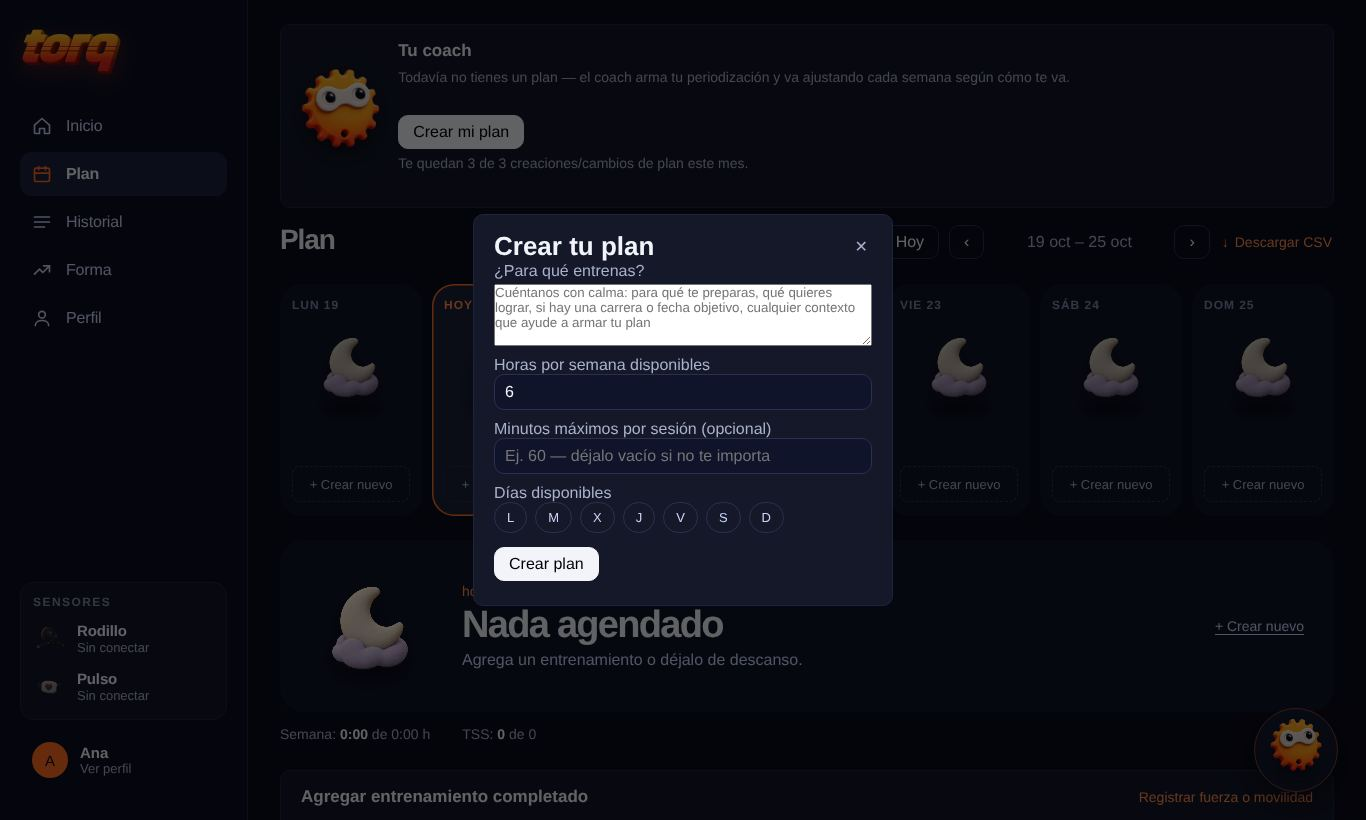
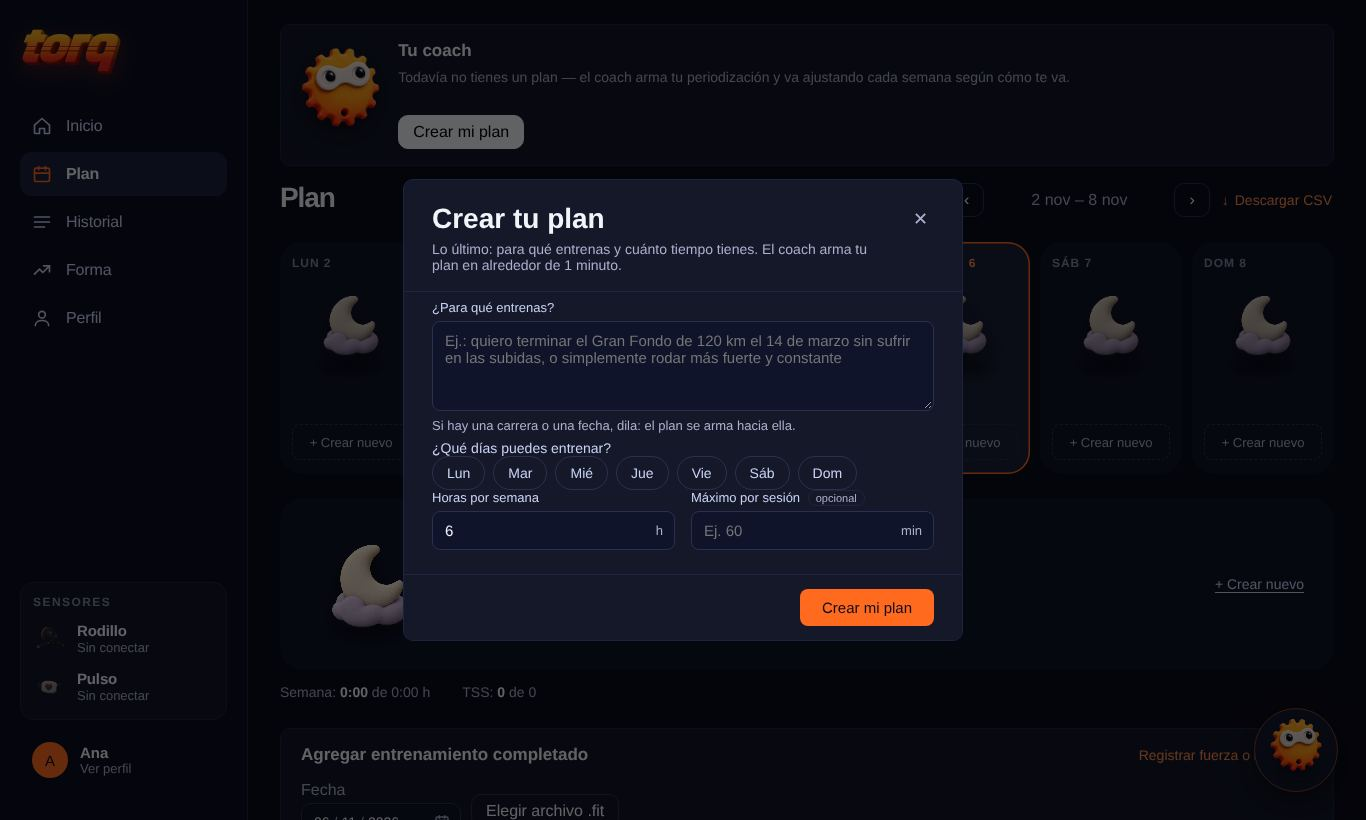
Crear mi plan: espera clara (~1 min) que no se cierra por accidente
Datos reales (coach_calls, 152 planes): la espera es de ~50 s, ~75 s en
el 10 % más lento y hasta ~2 min.

- Pantalla de espera: Piñón, los pasos marcándose, «Llevamos N s» y
  «tarda alrededor de 1 minuto; puedes cambiar de pestaña». Si cambió de
  pestaña, el título avisa «Tu plan está listo».
- No se puede cerrar mientras se arma (antes un clic afuera la cerraba:
  el plan se creaba sin que la persona viera el resultado).
- El modal usa el mismo diseño que el cuestionario; días con nombre
  corto; horas por semana tomadas de lo que contestó en el cuestionario.
- Resultado: «Tu plan está listo» y «Ver mi plan».
- «Te quedan N de 3 creaciones» solo cuando le queda 1 o ninguna.

Claude-Session: https://claude.ai/code/session_01PEamorFJQWTATM98QwwjDk

diff --git a/src/ui/coach.ts b/src/ui/coach.ts
@@ -35,7 +35,7 @@ import type { RemovedWorkout } from '../sync/plan-removals';
 import { dayKeyOf, daysAgoKey, todayKey as localTodayKey } from '../core/day-key';
 
 // «X» para miércoles, como en los calendarios en español: dos «M» no se distinguen.
-const DAY_LABELS: Record<string, string> = { mon: 'L', tue: 'M', wed: 'X', thu: 'J', fri: 'V', sat: 'S', sun: 'D' };
+const DAY_LABELS: Record<string, string> = { mon: 'Lun', tue: 'Mar', wed: 'Mié', thu: 'Jue', fri: 'Vie', sat: 'Sáb', sun: 'Dom' };
 const DAY_NAMES: Record<string, string> = { mon: 'Lunes', tue: 'Martes', wed: 'Miércoles', thu: 'Jueves', fri: 'Viernes', sat: 'Sábado', sun: 'Domingo' };
 const DAY_ORDER = ['mon', 'tue', 'wed', 'thu', 'fri', 'sat', 'sun'] as const;
 
@@ -526,7 +526,7 @@ function createCardHtml(actionsUsed: number): string {
         <h2 class="perfil-h2" style="margin:0">${aiCoachTitle()}</h2>
         <p class="hint" style="margin-top:8px">Todavía no tienes un plan — el coach arma tu periodización y va ajustando cada semana según cómo te va.</p>
         <button class="btn-light" id="coach-open-create" style="margin-top:10px" ${atLimit ? 'disabled' : ''}>Crear mi plan</button>
-        <p class="hint" style="margin-top:6px">${isUnlimited() ? UNLIMITED_HINT : atLimit ? 'Ya usaste tus 3 creaciones/cambios de plan de este mes — vuelve el próximo mes.' : `Te quedan ${remaining} de ${MONTHLY_PLAN_ACTION_LIMIT} creaciones/cambios de plan este mes.`}</p>
+        ${isUnlimited() ? `<p class="hint" style="margin-top:6px">${UNLIMITED_HINT}</p>` : atLimit ? '<p class="hint" style="margin-top:6px">Ya usaste tus 3 creaciones o cambios de plan de este mes: vuelve el próximo mes.</p>' : remaining === 1 ? '<p class="hint" style="margin-top:6px">Te queda 1 creación o cambio de plan este mes.</p>' : ''}
       </div>
     </div>`;
 }
@@ -535,27 +535,56 @@ function createCardHtml(actionsUsed: number): string {
 // onboarding.ts) — este modal solo pregunta lo específico de ESTE plan.
 // create_plan los lee directo de appState.profile al armar el context.
 function modalHtml(): string {
-  const days = DAY_ORDER.map((d) => `<button class="plan-chip" data-day="${d}" aria-label="${DAY_NAMES[d]}" title="${DAY_NAMES[d]}">${DAY_LABELS[d]}</button>`).join('');
+  const days = DAY_ORDER.map(
+    (d) => `<button type="button" class="ob-chip plan-chip" data-day="${d}" aria-pressed="false" aria-label="${DAY_NAMES[d]}" title="${DAY_NAMES[d]}">${DAY_LABELS[d]}</button>`,
+  ).join('');
+  // Lo que contestó en el cuestionario (horas que entrena hoy) es el mejor
+  // punto de partida; si no lo dio, 6 h.
+  const known = appState.profile.intake?.recentHoursPerWeek;
+  const hours = known && known >= 1 ? Math.min(20, Math.round(known)) : 6;
   return `
     <div class="modal-backdrop" id="coach-modal-backdrop">
-      <div class="panel plan-coach-modal" id="coach-modal">
-        <div class="plan-create-head">
-          <h2 class="perfil-h2" style="margin:0">Crear tu plan</h2>
-          <button class="plan-create-close" id="coach-modal-close" aria-label="Cerrar">✕</button>
+      <div class="panel ob-modal plan-coach-modal" id="coach-modal" role="dialog" aria-modal="true" aria-labelledby="coach-modal-title">
+        <header class="ob-head">
+          <div>
+            <h2 class="ob-title" id="coach-modal-title">Crear tu plan</h2>
+            <p class="ob-subtitle" id="coach-modal-subtitle">Lo último: para qué entrenas y cuánto tiempo tienes. El coach arma tu plan en alrededor de 1 minuto.</p>
+          </div>
+          <button type="button" class="ob-close" id="coach-modal-close" aria-label="Cerrar">✕</button>
+        </header>
+        <div class="ob-body" id="coach-form">
+          <label class="ob-field">¿Para qué entrenas?
+            <textarea id="coach-goal" rows="4" placeholder="Ej.: quiero terminar el Gran Fondo de 120 km el 14 de marzo sin sufrir en las subidas, o simplemente rodar más fuerte y constante"></textarea>
+          </label>
+          <p class="ob-note" style="margin-top:6px">Si hay una carrera o una fecha, dila: el plan se arma hacia ella.</p>
+          <p class="ob-q">¿Qué días puedes entrenar?</p>
+          <div class="ob-chips" id="coach-days">${days}</div>
+          <div class="ob-grid">
+            <label class="ob-field">Horas por semana
+              <span class="ob-input-unit"><input type="number" id="coach-hours" value="${hours}" min="1" max="20" step="0.5" inputmode="decimal"><span>h</span></span>
+            </label>
+            <label class="ob-field"><span>Máximo por sesión <span class="ob-optional">opcional</span></span>
+              <span class="ob-input-unit"><input type="number" id="coach-max-minutes" placeholder="Ej. 60" min="20" max="90" inputmode="numeric"><span>min</span></span>
+            </label>
+          </div>
         </div>
-        <label class="live-col-label">¿Para qué entrenas?
-          <textarea id="coach-goal" rows="4" placeholder="Cuéntanos con calma: para qué te preparas, qué quieres lograr, si hay una carrera o fecha objetivo, cualquier contexto que ayude a armar tu plan" style="width:100%;resize:vertical;font-family:inherit"></textarea>
-        </label>
-        <label class="live-col-label" style="margin-top:10px;display:block">Horas por semana disponibles
-          <input type="number" id="coach-hours" value="6" min="1" max="20" style="width:100%">
-        </label>
-        <label class="live-col-label" style="margin-top:10px;display:block">Minutos máximos por sesión (opcional)
-          <input type="number" id="coach-max-minutes" placeholder="Ej. 60 — déjalo vacío si no te importa" min="20" max="90" style="width:100%">
-        </label>
-        <label class="live-col-label" style="margin-top:10px;display:block">Días disponibles</label>
-        <div class="plan-chip-row" id="coach-days">${days}</div>
-        <button class="btn-light" id="coach-submit" style="margin-top:14px">Crear plan</button>
-        <p class="hint" id="coach-status" style="margin-top:8px"></p>
+        <div class="ob-body coach-wait" id="coach-wait" hidden>
+          <div class="coach-wait-head">
+            ${pinonFigureHtml('habla', 64)}
+            <div>
+              <p class="coach-wait-title">Armando tu plan…</p>
+              <p class="hint" style="margin:2px 0 0">Tarda alrededor de 1 minuto. Puedes cambiar de pestaña: te avisamos cuando esté.</p>
+            </div>
+          </div>
+          <ol class="coach-wait-steps" id="coach-wait-steps">
+            ${THINKING_MESSAGES.map((m) => `<li>${escapeHtml(m)}</li>`).join('')}
+          </ol>
+        </div>
+        <div class="ob-body" id="coach-result" hidden></div>
+        <footer class="ob-foot">
+          <span class="ob-status" id="coach-status" aria-live="polite"></span>
+          <button type="button" class="ob-save" id="coach-submit">Crear mi plan</button>
+        </footer>
       </div>
     </div>`;
 }
@@ -1074,23 +1103,41 @@ function openCreateModal(onChange: () => void): void {
   backdrop.querySelectorAll<HTMLButtonElement>('#coach-days .plan-chip').forEach((chip) => {
     chip.addEventListener('click', () => {
       const day = chip.dataset.day!;
-      if (selectedDays.has(day)) {
-        selectedDays.delete(day);
-        chip.classList.remove('on');
-      } else {
-        selectedDays.add(day);
-        chip.classList.add('on');
-      }
+      const on = !selectedDays.has(day);
+      if (on) selectedDays.add(day);
+      else selectedDays.delete(day);
+      chip.classList.toggle('on', on);
+      chip.setAttribute('aria-pressed', String(on));
     });
   });
 
-  const close = () => backdrop.remove();
-  backdrop.querySelector('#coach-modal-close')?.addEventListener('click', close);
-  backdrop.addEventListener('click', (e) => {
-    if (e.target === backdrop) close();
-  });
-
+  // Mientras el coach arma el plan (~1 min) no se puede cerrar: si se
+  // cerraba con un clic afuera, el plan se creaba pero la persona no veía
+  // el resultado (y podía pedir otro, gastando de los 3 del mes).
+  let waiting = false;
   const submitBtn = backdrop.querySelector<HTMLButtonElement>('#coach-submit')!;
+  const closeBtn = backdrop.querySelector<HTMLButtonElement>('#coach-modal-close')!;
+  const close = () => backdrop.remove();
+  closeBtn.addEventListener('click', () => {
+    if (!waiting) close();
+  });
+  backdrop.addEventListener('click', (e) => {
+    if (e.target === backdrop && !waiting) close();
+  });
+  const formEl = backdrop.querySelector<HTMLElement>('#coach-form')!;
+  const waitEl = backdrop.querySelector<HTMLElement>('#coach-wait')!;
+  const resultEl = backdrop.querySelector<HTMLElement>('#coach-result')!;
+  const steps = [...backdrop.querySelectorAll<HTMLElement>('#coach-wait-steps li')];
+  const subtitleEl = backdrop.querySelector<HTMLElement>('#coach-modal-subtitle');
+  const setWaiting = (on: boolean) => {
+    waiting = on;
+    formEl.hidden = on;
+    waitEl.hidden = !on;
+    closeBtn.hidden = on;
+    if (subtitleEl) subtitleEl.hidden = on;
+    submitBtn.hidden = on;
+  };
+
   backdrop.querySelector('#coach-submit')?.addEventListener('click', async () => {
     if (!supabase) return;
     const goal = (backdrop.querySelector<HTMLInputElement>('#coach-goal')!).value.trim();
@@ -1110,14 +1157,28 @@ function openCreateModal(onChange: () => void): void {
 
     // Deshabilitado mientras espera — la llamada tarda ~1-2 min y sin esto
     // un doble click manda dos create_plan (gasta 2 de las 3 del mes en vez
-    // de 1). El texto rota para que no se sienta colgado a ese tiempo.
+    // de 1). Mientras, una pantalla de espera que no se cierra por accidente.
     submitBtn.disabled = true;
+    setWaiting(true);
+    // Los pasos se van marcando (el último se queda hasta que llegue la
+    // respuesta) y al pie corre el tiempo: a ~1 min, un texto fijo se siente
+    // colgado.
+    const started = Date.now();
     let msgIndex = 0;
-    status.textContent = THINKING_MESSAGES[0];
+    const paint = () => {
+      steps.forEach((li, i) => {
+        li.classList.toggle('done', i < msgIndex);
+        li.classList.toggle('on', i === msgIndex);
+      });
+      const secs = Math.floor((Date.now() - started) / 1000);
+      status.textContent = `Llevamos ${secs} s`;
+    };
+    paint();
+    const tickTimer = window.setInterval(paint, 1000);
     const thinkingTimer = window.setInterval(() => {
-      msgIndex = (msgIndex + 1) % THINKING_MESSAGES.length;
-      status.textContent = THINKING_MESSAGES[msgIndex];
-    }, 4000);
+      msgIndex = Math.min(msgIndex + 1, THINKING_MESSAGES.length - 1);
+      paint();
+    }, 9000);
 
     // Todo lo de abajo ya vive en el Perfil (llenado por el cuestionario
     // inicial, ver onboarding.ts) — nunca se vuelve a preguntar aquí.
@@ -1152,6 +1213,8 @@ function openCreateModal(onChange: () => void): void {
 
     const { data, error } = await supabase.functions.invoke('coach-chat', { body: { mode: 'create_plan', context } });
     window.clearInterval(thinkingTimer);
+    window.clearInterval(tickTimer);
+    setWaiting(false);
     if (error || data?.error) {
       // En respuestas non-2xx, supabase-js deja `data` en null y pone en
       // `error.message` un texto genérico ("Edge Function returned a non-2xx
@@ -1185,22 +1248,28 @@ function openCreateModal(onChange: () => void): void {
     // atleta la cierre él mismo — ya no es un auto-cierre con timer, hay
     // algo real que leer.
     status.textContent = '';
-    const form = backdrop.querySelectorAll('label, .plan-chip-row, #coach-submit');
-    form.forEach((el) => ((el as HTMLElement).style.display = 'none'));
-    status.insertAdjacentHTML('beforebegin', coachBubbleHtml(data.result.coachNote, true));
-    if (status.parentElement) speakFreshBubbles(status.parentElement);
-    if (data.result.sentToCoach) status.insertAdjacentHTML('beforebegin', sentToCoachHtml());
+    formEl.hidden = true;
+    resultEl.hidden = false;
+    backdrop.querySelector('#coach-modal-title')!.textContent = 'Tu plan está listo';
+    backdrop.querySelector('#coach-modal-subtitle')?.remove();
+    resultEl.insertAdjacentHTML('beforeend', coachBubbleHtml(data.result.coachNote, true));
+    speakFreshBubbles(resultEl);
+    if (data.result.sentToCoach) resultEl.insertAdjacentHTML('beforeend', sentToCoachHtml());
     // El servidor puede correr el arranque al lunes siguiente si esta semana ya
     // no quedan días disponibles: manda la fecha con la que guardó el plan.
-    if (data.result.nextTest) status.insertAdjacentHTML('beforebegin', plannedTestHtml(data.result.nextTest, data.result.startDate ?? startDate));
+    if (data.result.nextTest) resultEl.insertAdjacentHTML('beforeend', plannedTestHtml(data.result.nextTest, data.result.startDate ?? startDate));
     if (data.result.suggestedFtp) {
-      status.insertAdjacentHTML('beforebegin', ftpOfferHtml({ watts: Math.round(data.result.suggestedFtp), from: 'create_plan', at: new Date().toISOString() }));
+      resultEl.insertAdjacentHTML('beforeend', ftpOfferHtml({ watts: Math.round(data.result.suggestedFtp), from: 'create_plan', at: new Date().toISOString() }));
       wireFtpOffer(backdrop);
     }
-    status.insertAdjacentHTML(
-      'afterend',
-      '<button class="btn-light" id="coach-done" style="margin-top:12px">Entendido</button>',
-    );
+    submitBtn.remove();
+    status.insertAdjacentHTML('afterend', '<button type="button" class="ob-save" id="coach-done">Ver mi plan</button>');
+    // Si cambió de pestaña mientras esperaba, el título se lo dice.
+    if (document.hidden) {
+      const before = document.title;
+      document.title = '✅ Tu plan está listo · Torq';
+      document.addEventListener('visibilitychange', () => (document.title = before), { once: true });
+    }
     // El servidor ya agendó los entrenamientos: se traen ahora, mientras la
     // persona lee la nota, para que el calendario no aparezca vacío.
     const reloaded = appState.reloadWorkoutsFromCloud().catch((err) => console.error('[coach] no se pudieron releer los workouts', err));

diff --git a/e2e/nube/03-coach-ia.spec.ts b/e2e/nube/03-coach-ia.spec.ts
@@ -67,6 +67,28 @@ test.describe('Crear mi plan', () => {
     expect(new Set(labels).size, `etiquetas: ${labels.join(' ')}`).toBe(labels.length);
   });
 
+  test('mientras arma el plan: pantalla de espera con tiempo, y no se cierra por accidente', async ({ page, backend, ux }) => {
+    const u = await enterAs(page, backend, 'ana', true);
+    coachOk(backend, u, 4_000);
+    await page.goto('/#/plan');
+    await ux.click(page.locator('#coach-open-create'), 'Crear mi plan');
+    // a quien todavía no crea ninguno no se le habla de su límite
+    await ux.fill(page.locator('#coach-goal'), 'Rodar 100 km en marzo', 'Meta');
+    await ux.click(page.locator('#coach-days [data-day=sat]'), 'Sábado');
+    await expect(page.locator('#coach-days [data-day=sat]')).toHaveAttribute('aria-pressed', 'true');
+    await ux.click(page.locator('#coach-submit'), 'Crear mi plan');
+    await expect(page.locator('#coach-wait')).toBeVisible();
+    await expect(page.locator('#coach-form')).toBeHidden();
+    await expect(page.locator('#coach-modal-close')).toBeHidden();
+    await expect(page.locator('#coach-status')).toContainText(/\d+ s$/);
+    // un clic afuera ya no la cierra a media creación
+    await page.mouse.click(5, 5);
+    await expect(page.locator('#coach-modal')).toBeVisible();
+    await ux.shot('21b-crear-plan-espera', page.locator('#coach-modal'));
+    await expect(page.locator('#coach-modal-title')).toHaveText('Tu plan está listo', { timeout: 10_000 });
+    await expect(page.locator('#coach-done')).toHaveText('Ver mi plan');
+  });
+
   test('mientras piensa no muestra siglas técnicas (CTL/ATL/TSB)', async ({ page, backend, ux }) => {
     const u = await enterAs(page, backend, 'ana', true);
     coachOk(backend, u, 14_000);

diff --git a/src/ui/styles.css b/src/ui/styles.css
@@ -3021,6 +3021,51 @@ a {
   max-height: 90vh;
   overflow-y: auto;
 }
+/* «Crear tu plan» usa el mismo diseño que el cuestionario (ob-*), un poco
+   más angosto. */
+.ob-modal.plan-coach-modal {
+  max-width: 560px;
+}
+/* Pantalla de espera mientras el coach arma el plan (~1 min) */
+.coach-wait-head {
+  display: flex;
+  align-items: center;
+  gap: 14px;
+  padding-top: 18px;
+}
+.coach-wait-title {
+  margin: 0;
+  font-family: var(--font-display);
+  font-size: 20px;
+  font-weight: 600;
+}
+.coach-wait-steps {
+  list-style: none;
+  margin: 18px 0 6px;
+  padding: 0;
+  display: flex;
+  flex-direction: column;
+  gap: 10px;
+}
+.coach-wait-steps li {
+  font-size: 14px;
+  color: var(--text-muted);
+  opacity: 0.55;
+  transition: opacity 0.3s ease, color 0.3s ease;
+}
+.coach-wait-steps li.on {
+  opacity: 1;
+  color: var(--text);
+  font-weight: 600;
+}
+.coach-wait-steps li.done {
+  opacity: 0.85;
+  text-decoration: line-through;
+  text-decoration-color: color-mix(in srgb, var(--accent) 70%, transparent);
+}
+#coach-result {
+  padding-top: 18px;
+}
 /* Desglose bloque por bloque de un workout (nombre, minutos, %FTP) — se
  * repite igual en el popup de detalle del calendario y en "Antes de
  * empezar" (ver intervalBlockHtml en calendar.ts/connect.ts). */
